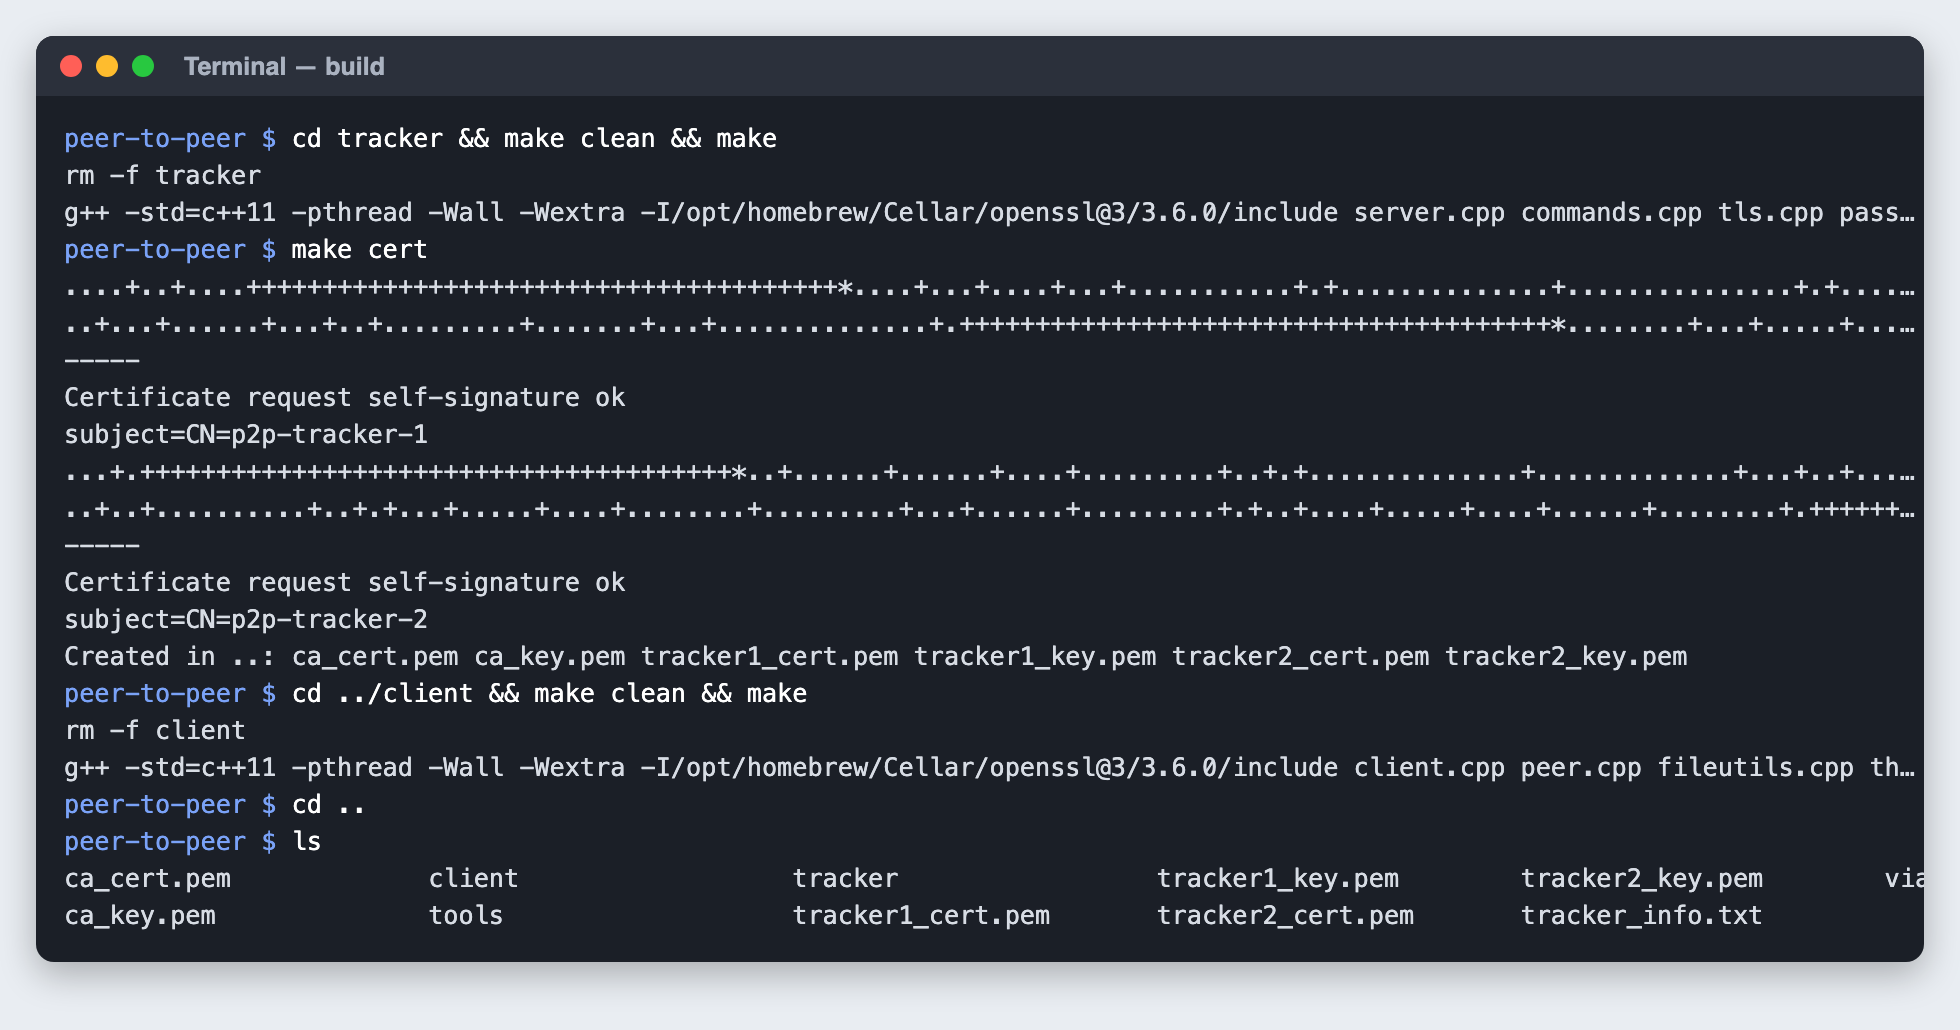
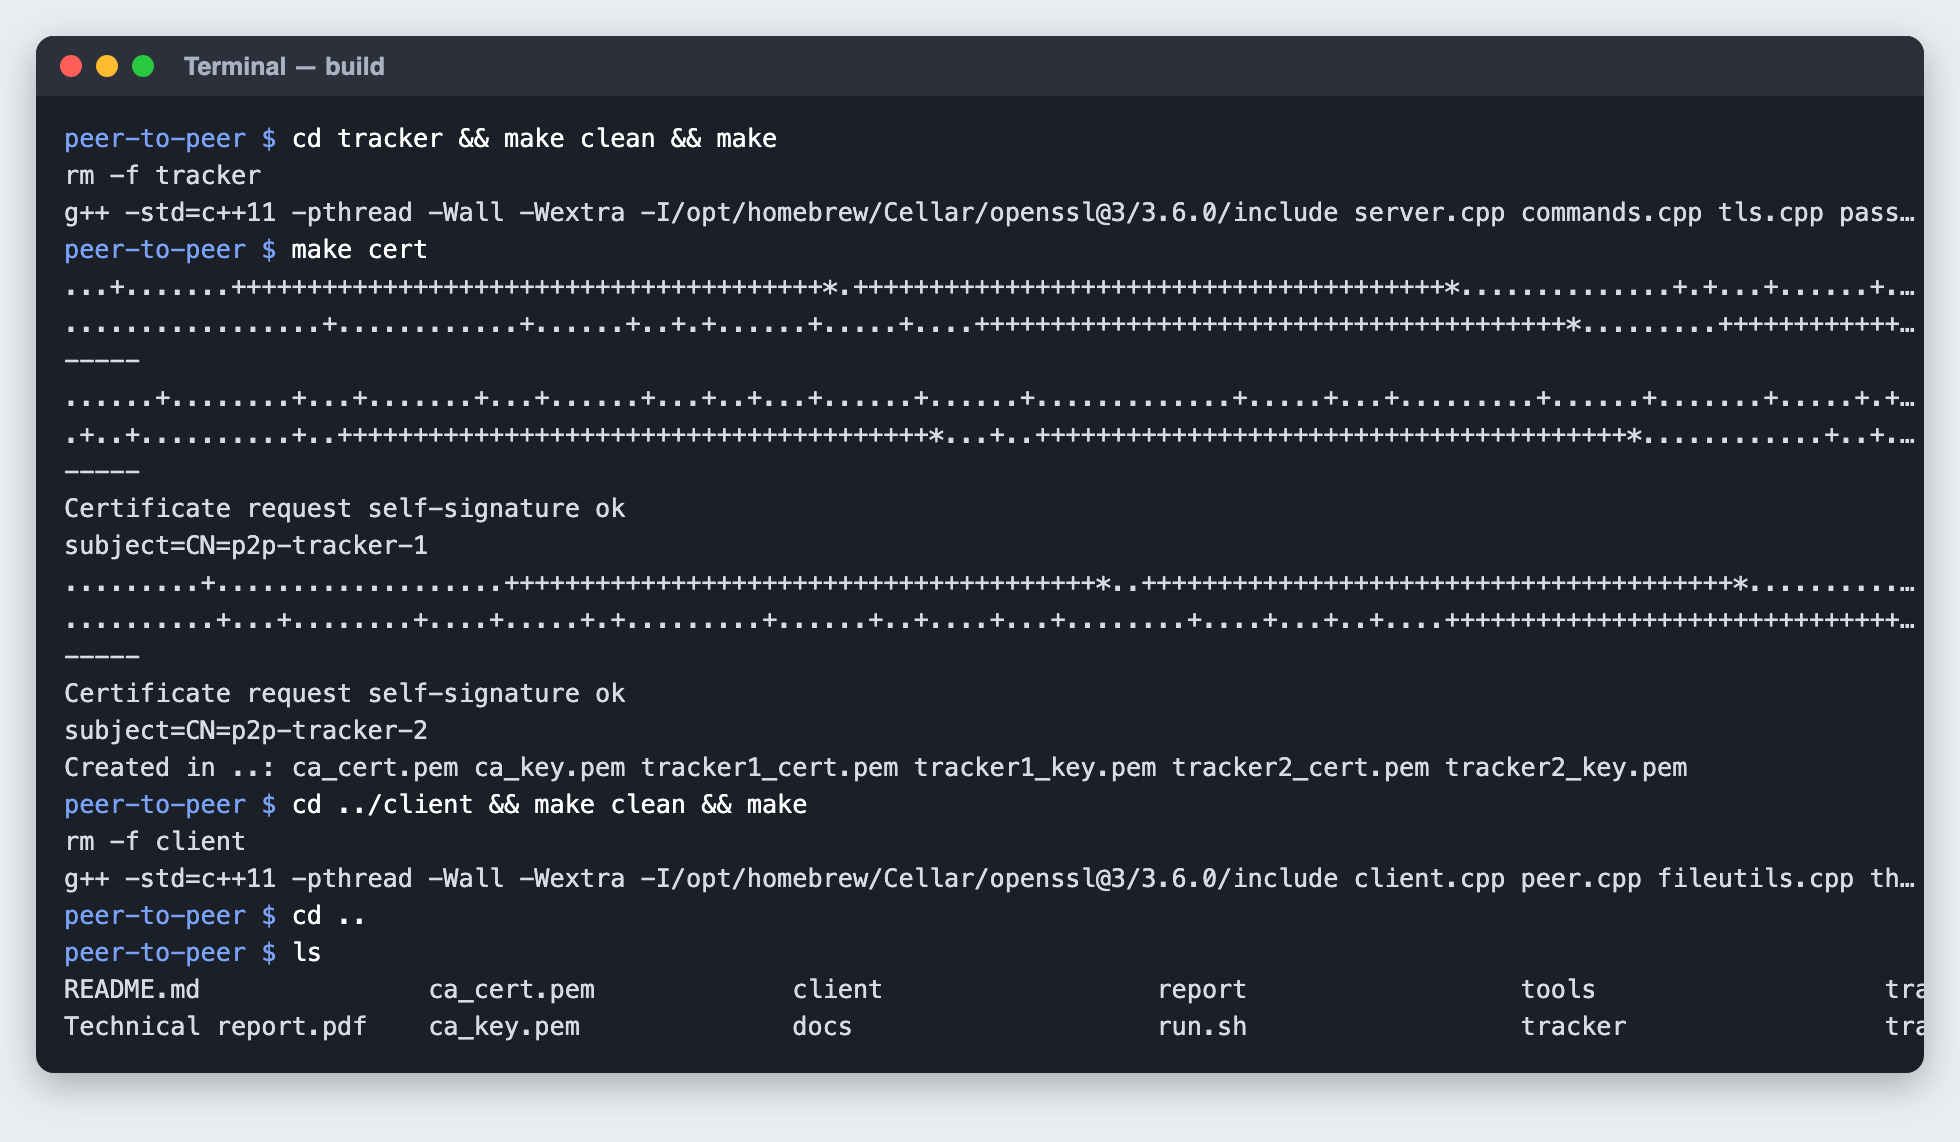
Screenshots regenerated from a fresh clone of the fixed code; add the uncut terminal recording

diff --git a/README.md b/README.md
@@ -29,7 +29,7 @@ A full write-up with diagrams is in [Technical report.pdf](Technical%20report.pd
 - [Commands](#commands)
 - [Architecture](#architecture) · [Key algorithms](#key-algorithms) · [Data structures](#data-structures) · [Network protocols](#network-protocols) · [Security](#security) · [Assumptions](#assumptions) · [Limitations](#limitations)
 
-> **About the screenshots.** They show the real output of one complete run of the commands below (two trackers, three clients, on macOS), drawn as terminal windows. Lines longer than the window are cut with `…`. Key fingerprints and password hashes are random, so yours will differ.
+> **About the screenshots.** They are not photos of a screen. One complete run of the commands below (two trackers, three clients, macOS, started from a fresh clone of this repository) was recorded from real terminals, and the images are that recorded text drawn as terminal windows. Window titles and colours were added; lines longer than the window are cut with `…`; where an image starts in the middle of a window, the prompt that stood before the first command is shown again. The complete, uncut recording of all six terminals is in [docs/session-recording/](docs/session-recording/). Key fingerprints and password hashes are random, so yours will differ.
 
 ---
 
